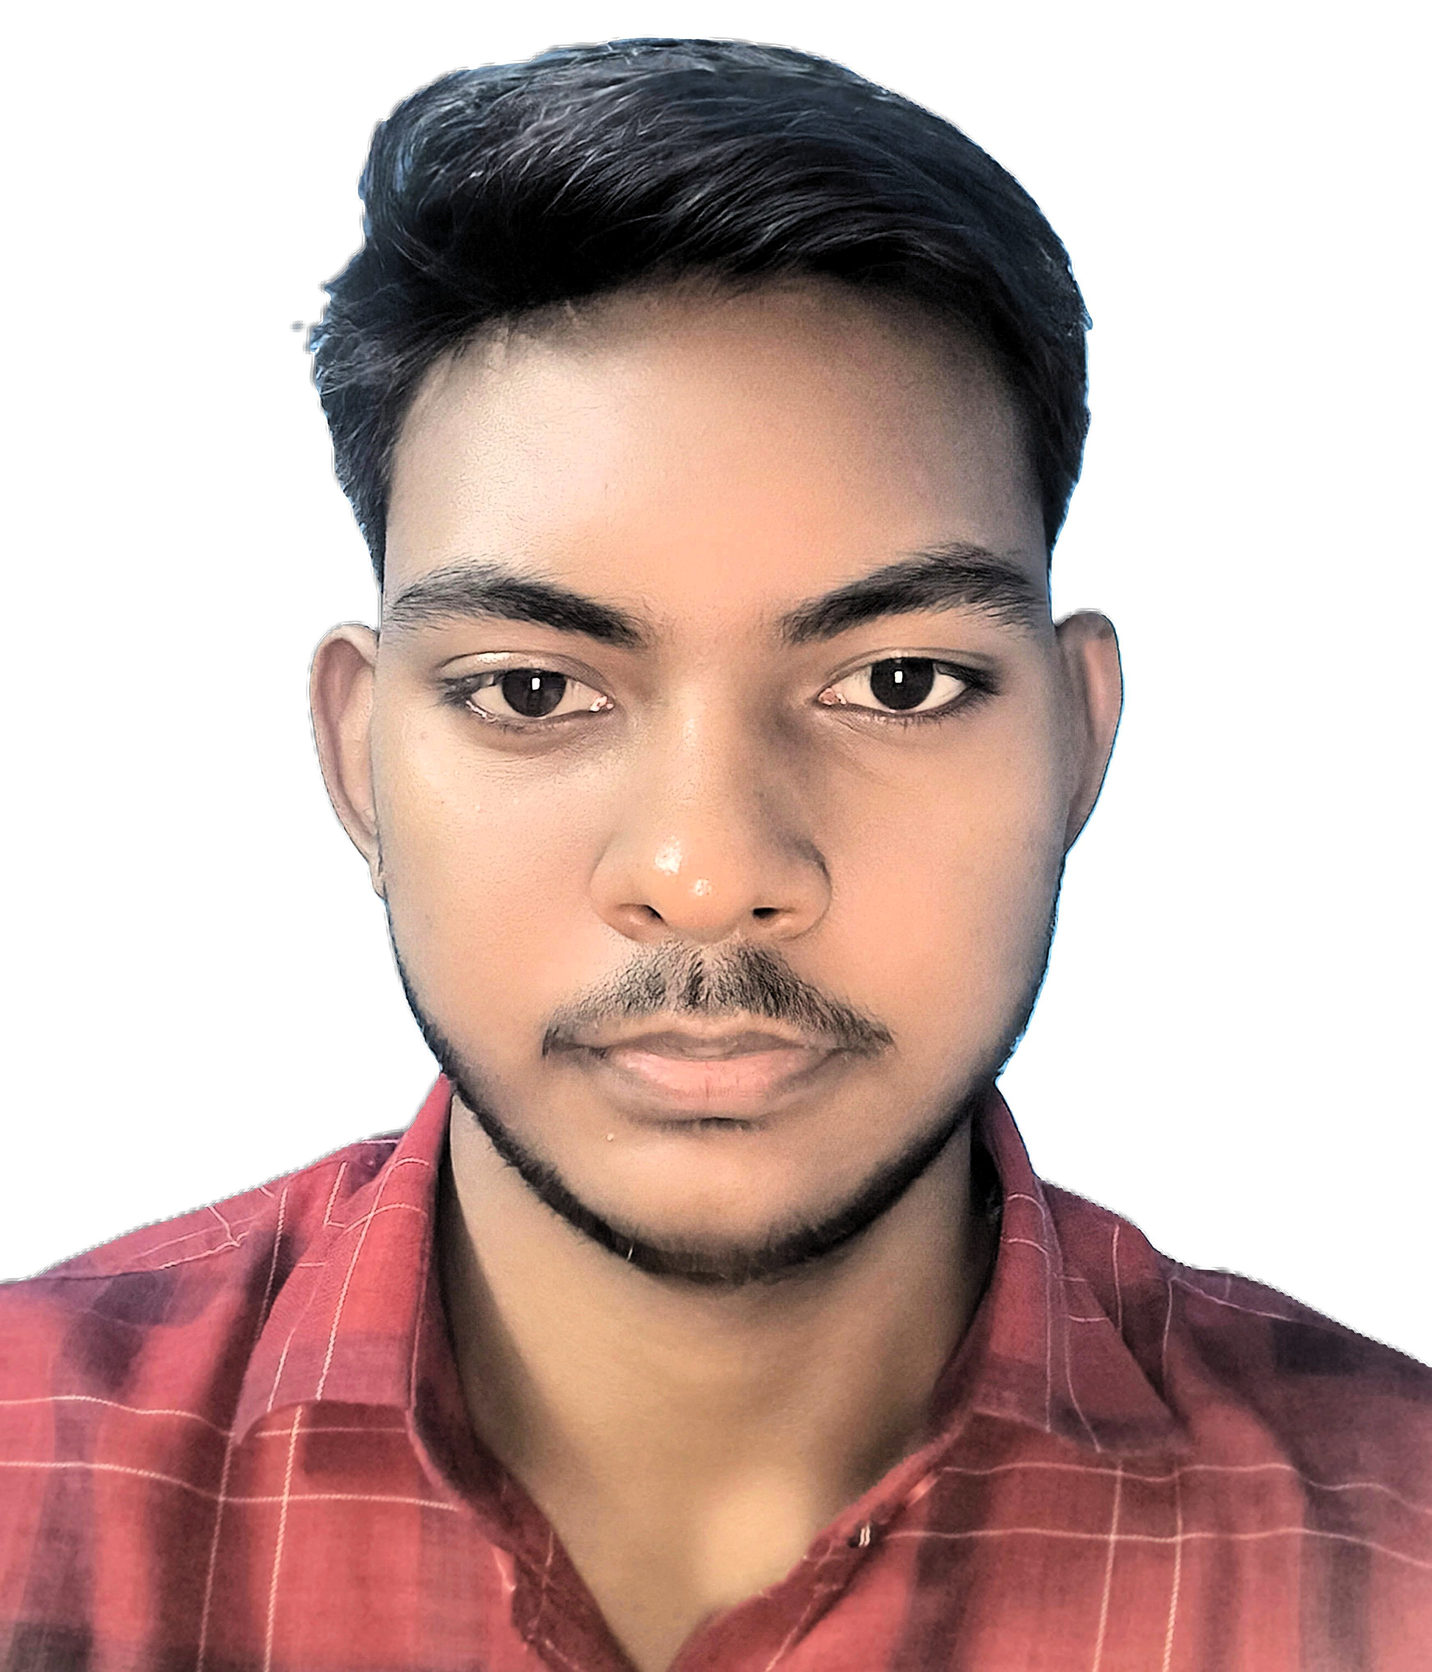
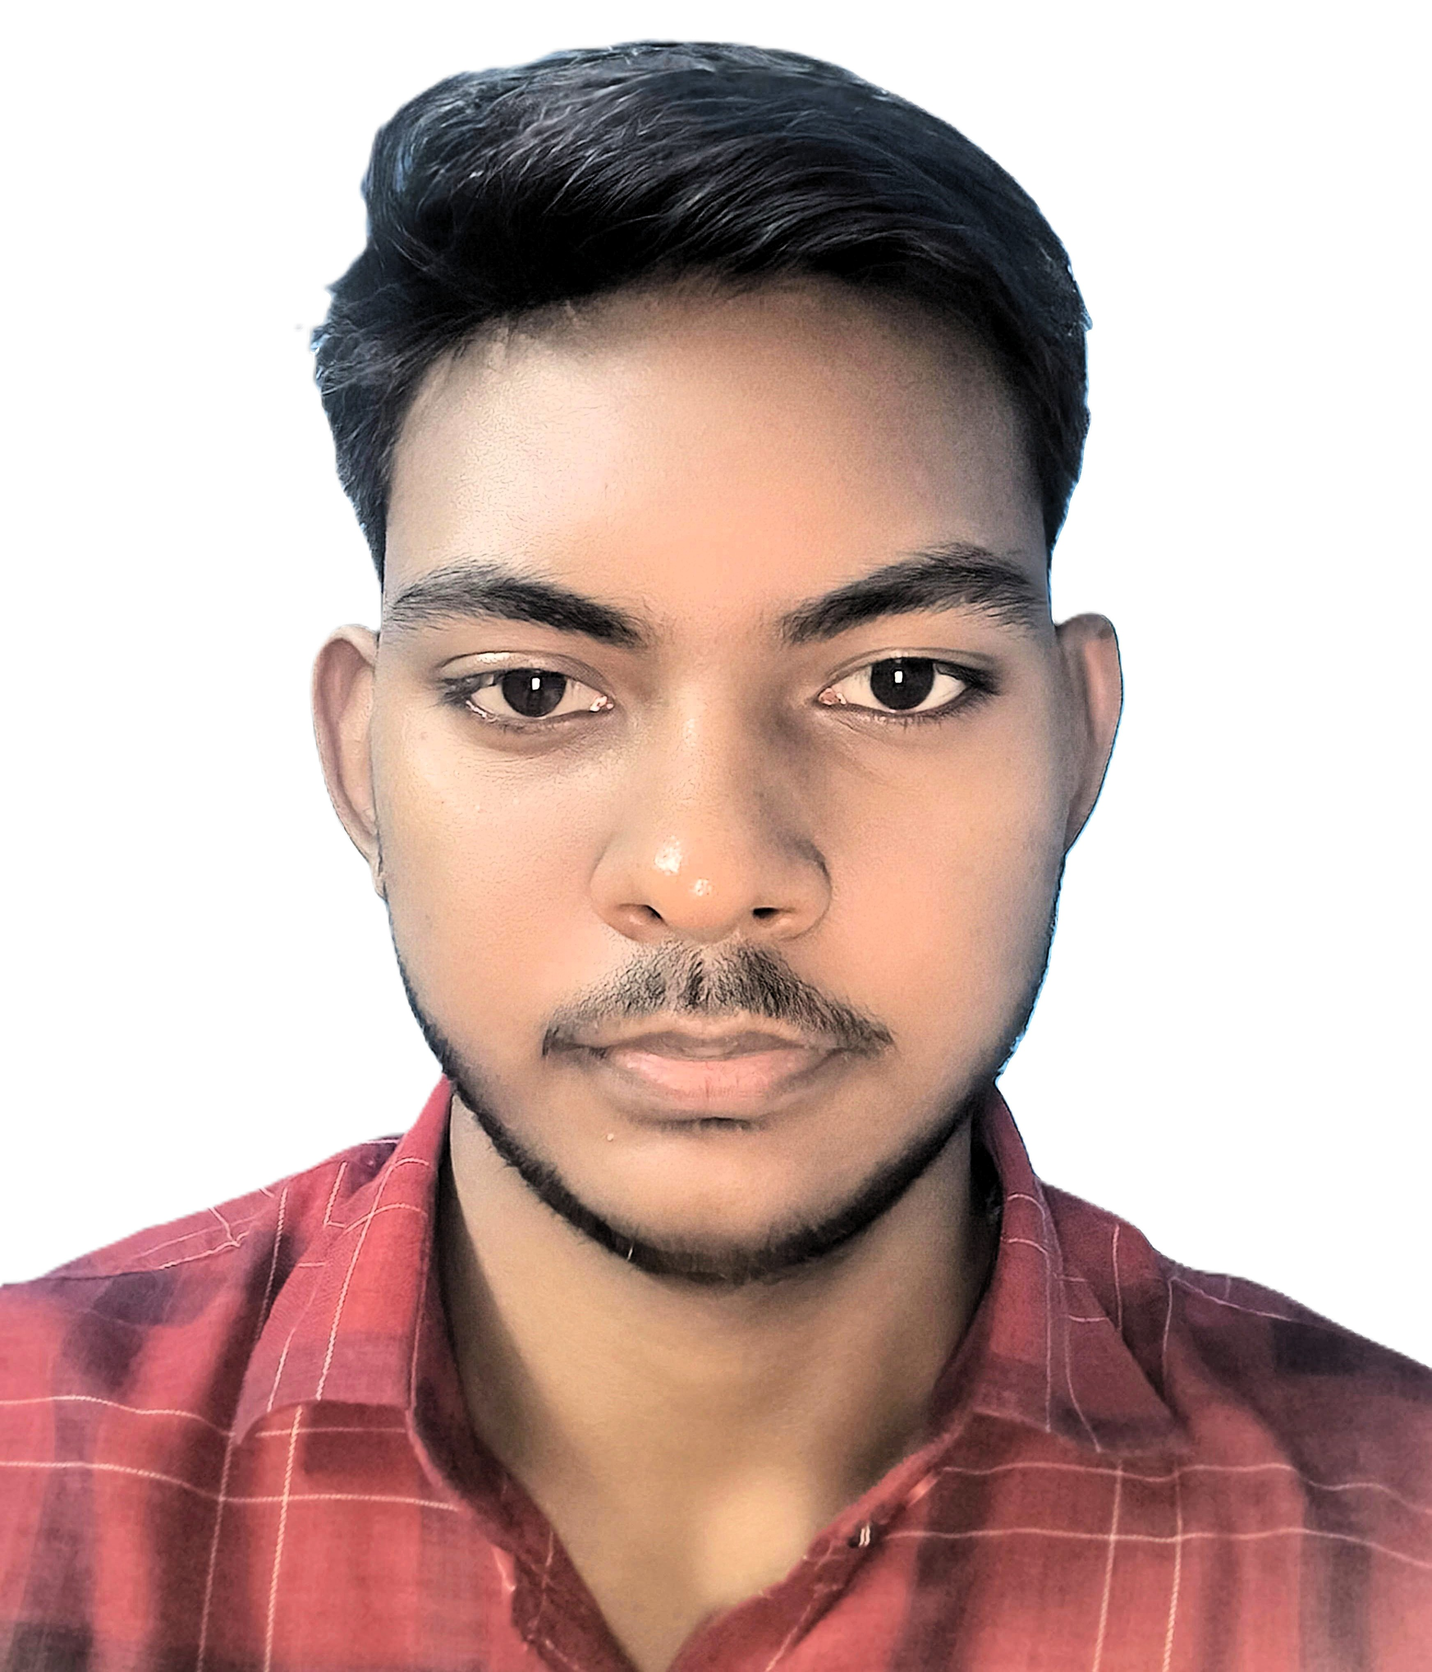
almost project section left and ui colors

diff --git a/index.html b/index.html
@@ -76,7 +76,8 @@
             <div class="hero-visual animate">
                 <div class="hero-img-wrapper">
                     <div class="hero-glow"></div>
-                    <img src="assests/images/VikashG2-fotor-20250112134234-removebg-preview.png" alt="Vikash" class="hero-img" loading="eager">
+                    <img src="assests/images/VikashG BG.jpeg" alt="Vikash" class="hero-img hero-img-dark" loading="eager">
+                    <img src="assests/images/VikashG BGW.jpeg" alt="Vikash" class="hero-img hero-img-light" loading="eager">
                 </div>
                 <div class="orbit"><div class="orbit-icon o1"><i class="bx bxl-react"></i></div><div class="orbit-icon o2"><i class="bx bxl-nodejs"></i></div><div class="orbit-icon o3"><i class="bx bxl-javascript"></i></div><div class="orbit-icon o4"><i class="bx bxl-python"></i></div></div>
             </div>
@@ -90,7 +91,7 @@
             <div class="section-header"><span class="subtitle animate">Get to know me</span><h2 class="title animate">About Me</h2><div class="title-line"></div></div>
             <div class="about-content">
                 <div class="about-img-wrap animate-left">
-                    <div class="about-img-container"><div class="about-glow"></div><img src="assests/images/VikashG2.JPG" alt="Vikash" class="about-img" loading="lazy"><div class="exp-badge glass"><span class="exp-num">2+</span><span class="exp-txt">Years of<br>Coding</span></div></div>
+                    <div class="about-img-container"><div class="about-glow"></div><img src="assests/images/VikashG2.JPG" alt="Vikash" class="about-img" loading="lazy"><div class="exp-badge glass"><span class="exp-num">3+</span><span class="exp-txt">Years of<br>Coding</span></div></div>
                 </div>
                 <div class="about-text animate-right">
                     <div class="about-card glass">
@@ -117,10 +118,9 @@
                 <div class="skills-grid tab-content active" id="languages">
                     <div class="skill-card glass animate"><div class="skill-icon"><i class="bx bxl-java"></i></div><h3>Java</h3><div class="skill-bar"><div class="skill-progress" data-progress="85"></div></div><span class="level">Advanced</span></div>
                     <div class="skill-card glass animate"><div class="skill-icon"><i class="bx bxl-python"></i></div><h3>Python</h3><div class="skill-bar"><div class="skill-progress" data-progress="80"></div></div><span class="level">Advanced</span></div>
-                    <div class="skill-card glass animate"><div class="skill-icon"><i class="bx bxl-javascript"></i></div><h3>JavaScript</h3><div class="skill-bar"><div class="skill-progress" data-progress="90"></div></div><span class="level">Expert</span></div>
+                    <div class="skill-card glass animate"><div class="skill-icon"><i class="bx bxl-javascript"></i></div><h3>JavaScript</h3><div class="skill-bar"><div class="skill-progress" data-progress="90"></div></div><span class="level">Advanced</span></div>
                     <div class="skill-card glass animate"><div class="skill-icon"><i class="bx bxl-c-plus-plus"></i></div><h3>C/C++</h3><div class="skill-bar"><div class="skill-progress" data-progress="75"></div></div><span class="level">Intermediate</span></div>
-                    <div class="skill-card glass animate"><div class="skill-icon"><i class="bx bxl-typescript"></i></div><h3>TypeScript</h3><div class="skill-bar"><div class="skill-progress" data-progress="70"></div></div><span class="level">Intermediate</span></div>
-                    <div class="skill-card glass animate"><div class="skill-icon sql">SQL</div><h3>SQL</h3><div class="skill-bar"><div class="skill-progress" data-progress="75"></div></div><span class="level">Intermediate</span></div>
+                    <div class="skill-card glass animate"><div class="skill-icon"><i class="bx bxl-typescript"></i></div><h3>TypeScript</h3><div class="skill-bar"><div class="skill-progress" data-progress="70"></div></div><span class="level">Beginner</span></div>
                 </div>
                 <div class="skills-grid tab-content" id="frontend">
                     <div class="skill-card glass animate"><div class="skill-icon"><i class="bx bxl-react"></i></div><h3>React.js</h3><div class="skill-bar"><div class="skill-progress" data-progress="88"></div></div><span class="level">Advanced</span></div>
@@ -128,13 +128,11 @@
                     <div class="skill-card glass animate"><div class="skill-icon"><i class="bx bxl-css3"></i></div><h3>CSS3/SCSS</h3><div class="skill-bar"><div class="skill-progress" data-progress="92"></div></div><span class="level">Expert</span></div>
                     <div class="skill-card glass animate"><div class="skill-icon"><i class="bx bxl-tailwind-css"></i></div><h3>Tailwind</h3><div class="skill-bar"><div class="skill-progress" data-progress="85"></div></div><span class="level">Advanced</span></div>
                     <div class="skill-card glass animate"><div class="skill-icon"><i class="bx bxl-bootstrap"></i></div><h3>Bootstrap</h3><div class="skill-bar"><div class="skill-progress" data-progress="80"></div></div><span class="level">Advanced</span></div>
-                    <div class="skill-card glass animate"><div class="skill-icon next">N</div><h3>Next.js</h3><div class="skill-bar"><div class="skill-progress" data-progress="70"></div></div><span class="level">Intermediate</span></div>
                 </div>
                 <div class="skills-grid tab-content" id="backend">
                     <div class="skill-card glass animate"><div class="skill-icon"><i class="bx bxl-nodejs"></i></div><h3>Node.js</h3><div class="skill-bar"><div class="skill-progress" data-progress="82"></div></div><span class="level">Advanced</span></div>
                     <div class="skill-card glass animate"><div class="skill-icon express">Ex</div><h3>Express.js</h3><div class="skill-bar"><div class="skill-progress" data-progress="80"></div></div><span class="level">Advanced</span></div>
                     <div class="skill-card glass animate"><div class="skill-icon"><i class="bx bxl-mongodb"></i></div><h3>MongoDB</h3><div class="skill-bar"><div class="skill-progress" data-progress="78"></div></div><span class="level">Intermediate</span></div>
-                    <div class="skill-card glass animate"><div class="skill-icon"><i class="bx bxs-data"></i></div><h3>MySQL</h3><div class="skill-bar"><div class="skill-progress" data-progress="75"></div></div><span class="level">Intermediate</span></div>
                     <div class="skill-card glass animate"><div class="skill-icon api">API</div><h3>REST APIs</h3><div class="skill-bar"><div class="skill-progress" data-progress="85"></div></div><span class="level">Advanced</span></div>
                     <div class="skill-card glass animate"><div class="skill-icon"><i class="bx bxl-firebase"></i></div><h3>Firebase</h3><div class="skill-bar"><div class="skill-progress" data-progress="72"></div></div><span class="level">Intermediate</span></div>
                 </div>
@@ -142,9 +140,7 @@
                     <div class="skill-card glass animate"><div class="skill-icon"><i class="bx bxl-git"></i></div><h3>Git</h3><div class="skill-bar"><div class="skill-progress" data-progress="88"></div></div><span class="level">Advanced</span></div>
                     <div class="skill-card glass animate"><div class="skill-icon"><i class="bx bxl-github"></i></div><h3>GitHub</h3><div class="skill-bar"><div class="skill-progress" data-progress="90"></div></div><span class="level">Expert</span></div>
                     <div class="skill-card glass animate"><div class="skill-icon"><i class="bx bxl-visual-studio"></i></div><h3>VS Code</h3><div class="skill-bar"><div class="skill-progress" data-progress="95"></div></div><span class="level">Expert</span></div>
-                    <div class="skill-card glass animate"><div class="skill-icon"><i class="bx bxl-docker"></i></div><h3>Docker</h3><div class="skill-bar"><div class="skill-progress" data-progress="65"></div></div><span class="level">Learning</span></div>
-                    <div class="skill-card glass animate"><div class="skill-icon"><i class="bx bx-terminal"></i></div><h3>Linux</h3><div class="skill-bar"><div class="skill-progress" data-progress="80"></div></div><span class="level">Advanced</span></div>
-                    <div class="skill-card glass animate"><div class="skill-icon"><i class="bx bxl-figma"></i></div><h3>Figma</h3><div class="skill-bar"><div class="skill-progress" data-progress="70"></div></div><span class="level">Intermediate</span></div>
+                    <div class="skill-card glass animate"><div class="skill-icon"><i class="bx bx-terminal"></i></div><h3>Linux</h3><div class="skill-bar"><div class="skill-progress" data-progress="80"></div></div><span class="level">Intermediate</span></div>
                 </div>
             </div>
         </div>
@@ -173,9 +169,9 @@
             <div class="section-header"><span class="subtitle animate">My journey</span><h2 class="title animate">Experience & Activities</h2><div class="title-line"></div></div>
             <div class="timeline">
                 <div class="timeline-item animate-left"><div class="timeline-marker"><i class="bx bx-code-alt"></i></div><div class="timeline-content glass"><span class="date">2024 - Present</span><h3>Computer Science Student</h3><p class="place">STCET, Kolkata</p><p>Pursuing B.Tech in CSE. Active in coding clubs, technical events, and hackathons.</p><div class="timeline-tags"><span>DSA</span><span>Web Dev</span><span>Open Source</span></div></div></div>
-                <div class="timeline-item animate-right"><div class="timeline-marker"><i class="bx bx-trophy"></i></div><div class="timeline-content glass"><span class="date">2023 - 2024</span><h3>Hackathon Participant</h3><p class="place">Multiple Events</p><p>Built innovative solutions under time constraints. Experience in rapid prototyping.</p><div class="timeline-tags"><span>Team Lead</span><span>Innovation</span><span>Problem Solving</span></div></div></div>
-                <div class="timeline-item animate-left"><div class="timeline-marker"><i class="bx bx-group"></i></div><div class="timeline-content glass"><span class="date">2023</span><h3>Alpha Coders Team Member</h3><p class="place">Coding Community</p><p>Contributing to community projects, mentoring beginners, organizing sessions.</p><div class="timeline-tags"><span>Community</span><span>Mentoring</span><span>Collaboration</span></div></div></div>
-                <div class="timeline-item animate-right"><div class="timeline-marker"><i class="bx bx-rocket"></i></div><div class="timeline-content glass"><span class="date">2022 - 2023</span><h3>Self-Taught Developer</h3><p class="place">Online Learning</p><p>Started coding journey with web development. Built 12+ projects in 3 months.</p><div class="timeline-tags"><span>Self-Learning</span><span>Projects</span><span>Growth</span></div></div></div>
+                <div class="timeline-item animate-right"><div class="timeline-marker"><i class="bx bx-trophy"></i></div><div class="timeline-content glass"><span class="date">2025 - Present</span><h3>Hackathon Participant</h3><p class="place">Multiple Events</p><p>Built innovative solutions under time constraints. Experience in rapid prototyping.</p><div class="timeline-tags"><span>Team Lead</span><span>Innovation</span><span>Problem Solving</span></div></div></div>
+                <div class="timeline-item animate-left"><div class="timeline-marker"><i class="bx bx-group"></i></div><div class="timeline-content glass"><span class="date">2025</span><h3>Alpha Coders Core Team Member</h3><p class="place">Coding Community</p><p>Contributing to community projects, mentoring beginners, organizing sessions.</p><div class="timeline-tags"><span>Community</span><span>Mentoring</span><span>Collaboration</span></div></div></div>
+                <div class="timeline-item animate-right"><div class="timeline-marker"><i class="bx bx-rocket"></i></div><div class="timeline-content glass"><span class="date">2024 - 2025</span><h3>Self-Taught Developer</h3><p class="place">Online Learning</p><p>Started coding journey with web development. Built 12+ projects in 3 months.</p><div class="timeline-tags"><span>Self-Learning</span><span>Projects</span><span>Growth</span></div></div></div>
             </div>
         </div>
     </section>
@@ -195,7 +191,7 @@
                     <div class="chart-header"><h3>Contribution Graph</h3></div>
                     <div class="contribution-graph">
                         <picture>
-                            <source media="(prefers-color-scheme: dark)" srcset="https://github-readme-activity-graph.vercel.app/graph?username=Vortex-16&theme=github-dark&hide_border=true&area=true&bg_color=1a1a1a">
+                            <source media="(prefers-color-scheme: dark)" srcset="https://github-readme-activity-graph.vercel.app/graph?username=Vortex-16&theme=github-dark&hide_border=true&area=true">
                             <source media="(prefers-color-scheme: light)" srcset="https://github-readme-activity-graph.vercel.app/graph?username=Vortex-16&theme=github-light&hide_border=true&area=true">
                             <img src="https://github-readme-activity-graph.vercel.app/graph?username=Vortex-16&theme=github-dark&hide_border=true&area=true&bg_color=1a1a1a" width="100%" alt="Contribution Graph" class="activity-graph" id="github-activity-graph">
                         </picture>

diff --git a/style.css b/style.css
@@ -2,11 +2,52 @@
    VIKASH GUPTA - MODERN PORTFOLIO CSS
    ======================================== */
 
+/* Custom Fonts */
+@font-face {
+    font-family: 'Lexa';
+    src: url('assests/font/lexa.otf') format('opentype');
+    font-weight: normal;
+    font-style: normal;
+    font-display: swap;
+}
+
+@font-face {
+    font-family: 'Monorama';
+    src: url('assests/font/Monorama-Regular.ttf') format('truetype');
+    font-weight: 400;
+    font-style: normal;
+    font-display: swap;
+}
+
+@font-face {
+    font-family: 'Monorama';
+    src: url('assests/font/Monorama-Medium.ttf') format('truetype');
+    font-weight: 500;
+    font-style: normal;
+    font-display: swap;
+}
+
+@font-face {
+    font-family: 'Monorama';
+    src: url('assests/font/Monorama-SemiBold.ttf') format('truetype');
+    font-weight: 600;
+    font-style: normal;
+    font-display: swap;
+}
+
+@font-face {
+    font-family: 'Monorama';
+    src: url('assests/font/Monorama-Bold.ttf') format('truetype');
+    font-weight: 700;
+    font-style: normal;
+    font-display: swap;
+}
+
 /* CSS Variables */
 :root {
-    --bg-primary: #0a0a0f;
-    --bg-secondary: #12121a;
-    --bg-tertiary: #1a1a25;
+    --bg-primary: #000000;
+    --bg-secondary: #0a0a0a;
+    --bg-tertiary: #111111;
     --text-primary: #ffffff;
     --text-secondary: #a0a0b0;
     --text-muted: #6b6b80;
@@ -73,7 +114,7 @@ body {
     top: 0;
     left: 0;
     height: 3px;
-    background: var(--accent-gradient);
+    background: var(--accent-primary);
     z-index: 9999;
     width: 0%;
     transition: width 0.1s linear;
@@ -202,7 +243,7 @@ body {
 }
 .nav { display: flex; align-items: center; justify-content: space-between; }
 .nav-logo {
-    font-family: 'Space Grotesk', sans-serif;
+    font-family: 'Monorama', 'Space Grotesk', sans-serif;
     font-size: 24px;
     font-weight: 700;
     color: var(--text-primary);
@@ -264,24 +305,8 @@ body {
     inset: 0;
     z-index: -1;
 }
-.floating-shapes { position: absolute; inset: 0; overflow: hidden; }
-.shape {
-    position: absolute;
-    border-radius: 50%;
-    filter: blur(80px);
-    opacity: 0.3;
-    animation: float 20s ease-in-out infinite;
-}
-.s1 { width: 400px; height: 400px; background: var(--accent-primary); top: 10%; left: 10%; }
-.s2 { width: 300px; height: 300px; background: var(--accent-secondary); top: 60%; right: 10%; animation-delay: -5s; }
-.s3 { width: 250px; height: 250px; background: #ff6b6b; bottom: 20%; left: 30%; animation-delay: -10s; }
-.s4 { width: 350px; height: 350px; background: #4ecdc4; top: 40%; right: 30%; animation-delay: -15s; }
-@keyframes float {
-    0%, 100% { transform: translate(0, 0) scale(1); }
-    25% { transform: translate(50px, -50px) scale(1.1); }
-    50% { transform: translate(-30px, 30px) scale(0.9); }
-    75% { transform: translate(40px, 40px) scale(1.05); }
-}
+.floating-shapes { display: none; }
+.shape { display: none; }
 .grid-overlay {
     position: absolute;
     inset: 0;
@@ -312,17 +337,17 @@ body {
 }
 @keyframes pulse { 0%, 100% { opacity: 1; } 50% { opacity: 0.5; } }
 .hero-title {
-    font-family: 'Space Grotesk', sans-serif;
-    font-size: clamp(2.5rem, 5vw, 4rem);
-    font-weight: 700;
+    font-family: 'Monorama', 'Space Grotesk', sans-serif;
+    font-size: clamp(2.5rem, 5vw, 4.5rem);
+    font-weight: 400;
     line-height: 1.1;
     margin-bottom: 16px;
+    letter-spacing: 1px;
 }
 .hero-title .name {
-    background: var(--accent-gradient);
-    -webkit-background-clip: text;
-    -webkit-text-fill-color: transparent;
-    background-clip: text;
+    color: var(--accent-primary);
+    font-family: 'Lexa';
+    display: block;
 }
 .hero-subtitle {
     font-size: clamp(1.2rem, 2.5vw, 1.5rem);
@@ -352,10 +377,10 @@ body {
     transition: all var(--transition-fast);
 }
 .btn-primary {
-    background: var(--accent-gradient);
+    background: var(--accent-primary);
     color: var(--bg-primary);
 }
-.btn-primary:hover { transform: translateY(-2px); box-shadow: 0 10px 30px var(--shadow-color); }
+.btn-primary:hover { transform: translateY(-2px); box-shadow: 0 10px 30px var(--shadow-color); background: #00b8e0; }
 .btn-secondary {
     background: transparent;
     color: var(--text-primary);
@@ -397,7 +422,16 @@ body {
     border: 3px solid var(--glass-border);
     position: relative;
     z-index: 1;
+    position: absolute;
+    top: 0;
+    left: 0;
 }
+/* Theme-aware hero images */
+body.dark-mode .hero-img-dark { opacity: 1; }
+body.dark-mode .hero-img-light { opacity: 0; }
+body.light-mode .hero-img-dark { opacity: 0; }
+body.light-mode .hero-img-light { opacity: 1; }
+.hero-img-dark, .hero-img-light { transition: opacity 0.3s ease; }
 .orbit {
     position: absolute;
     inset: -40px;
@@ -469,15 +503,16 @@ body {
     margin-bottom: 12px;
 }
 .title {
-    font-family: 'Space Grotesk', sans-serif;
+    font-family: 'Monorama', 'Space Grotesk', sans-serif;
     font-size: clamp(2rem, 4vw, 3rem);
     font-weight: 700;
     margin-bottom: 16px;
+    letter-spacing: 0.5px;
 }
 .title-line {
     width: 60px;
     height: 4px;
-    background: var(--accent-gradient);
+    background: var(--accent-primary);
     margin: 0 auto;
     border-radius: 2px;
 }
@@ -511,7 +546,7 @@ body {
 }
 .exp-num {
     display: block;
-    font-family: 'Space Grotesk', sans-serif;
+    font-family: 'Monorama', 'Space Grotesk', sans-serif;
     font-size: 2.5rem;
     font-weight: 700;
     color: var(--accent-primary);
@@ -594,7 +629,7 @@ body {
     border-radius: 50%;
 }
 .skill-icon.sql, .skill-icon.next, .skill-icon.express, .skill-icon.api {
-    font-family: 'Space Grotesk', sans-serif;
+    font-family: 'Monorama', 'Space Grotesk', sans-serif;
     font-size: 16px;
     font-weight: 700;
 }
@@ -795,7 +830,7 @@ body {
 .stat-info { text-align: left; }
 .stat-num {
     display: block;
-    font-family: 'Space Grotesk', sans-serif;
+    font-family: 'Monorama', 'Space Grotesk', sans-serif;
     font-size: 2rem;
     font-weight: 700;
     color: var(--text-primary);
@@ -1008,7 +1043,7 @@ body {
 }
 .footer-content { text-align: center; }
 .footer-logo {
-    font-family: 'Space Grotesk', sans-serif;
+    font-family: 'Monorama', 'Space Grotesk', sans-serif;
     font-size: 24px;
     font-weight: 700;
     margin-bottom: 20px;
